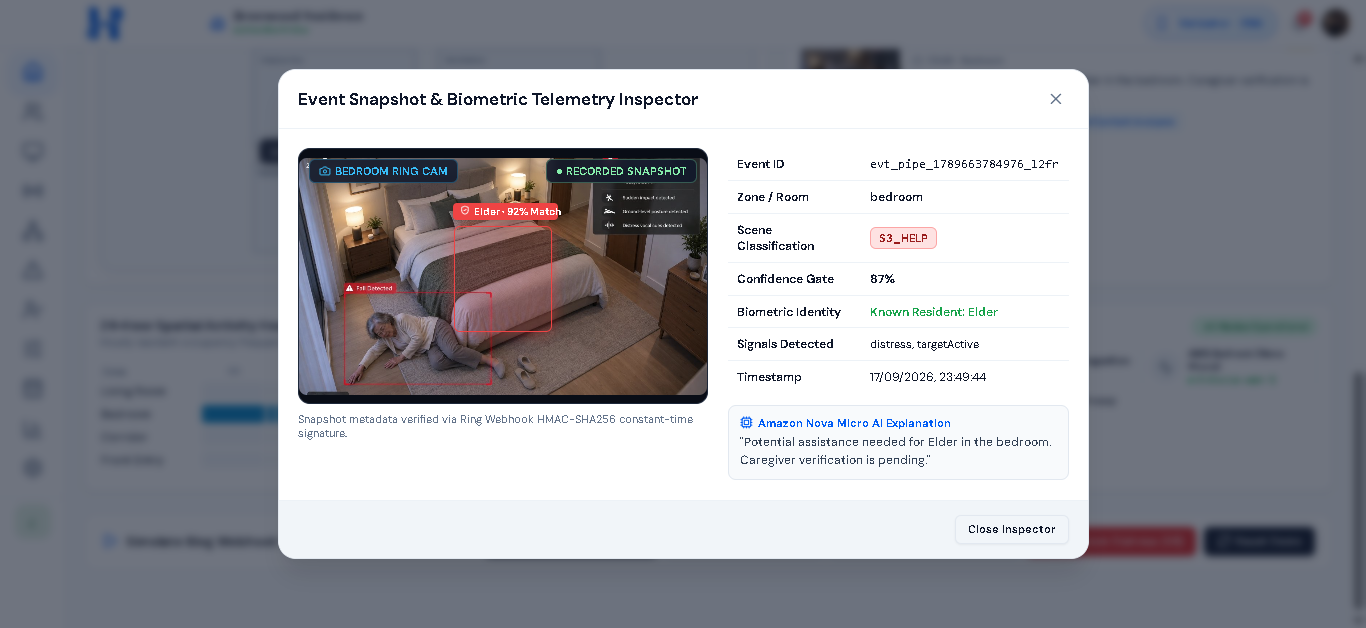
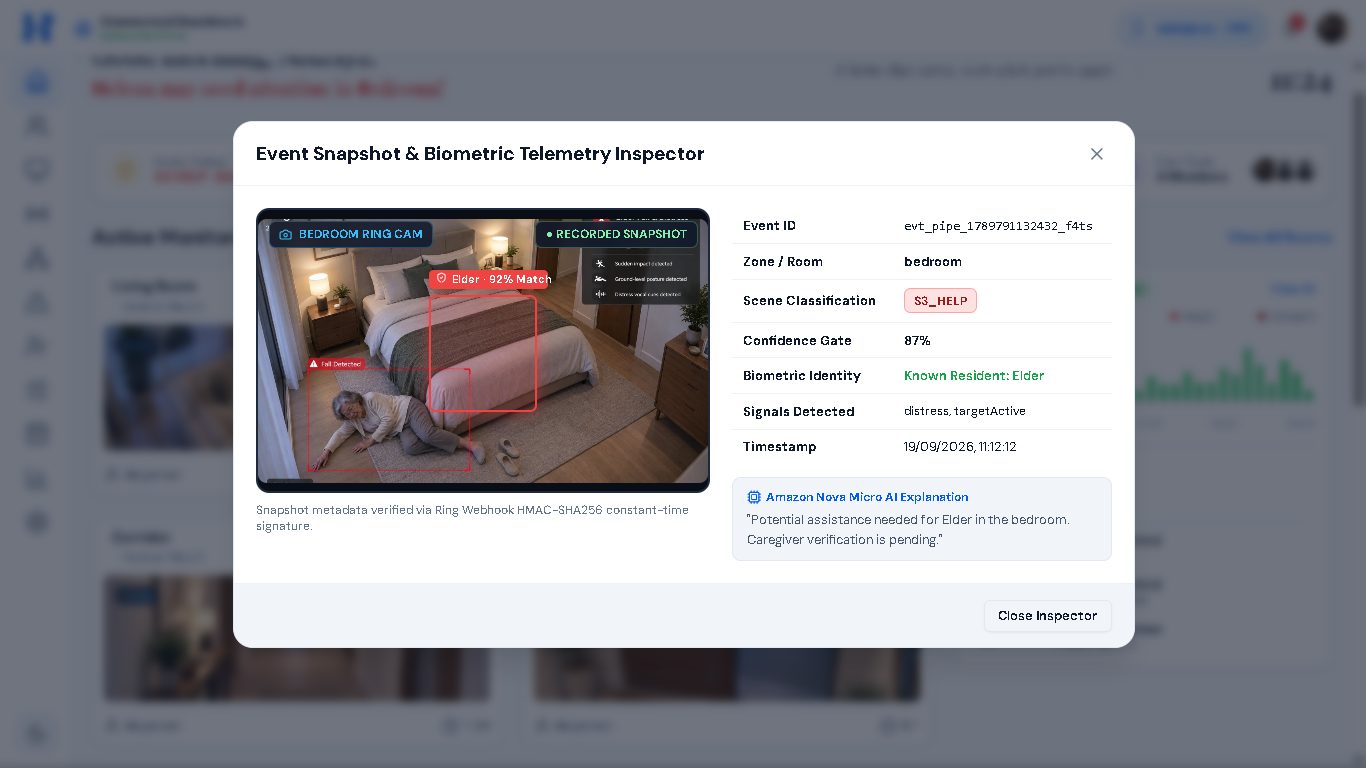
chore: refresh screenshots from screenshots-2 + update README gallery
- Replace docs/screenshots/* with light 1920x1080 re-shoot 11:21-11:46 (01 top/bottom, 02, 03+confirm, 04, 05, 06+camera, 07+Insight, 08 topology, 00 default, TIMELINE)
- Remove stale 01-dashboard-overview.png, 06A, 07A old pre-theme
- README: 7 sections -> 8 sections with TOP/BOTTOM split, camera, Insight, Timeline, Topology

diff --git a/README.md b/README.md
@@ -53,27 +53,34 @@ HESTIA is designed as a calm elder-care operating system rather than a surveilla
 Here is the visual walkthrough of the HESTIA platform across its core modules:
 
 ### 1. Care Command Center Overview
-![Dashboard Overview](docs/screenshots/01-dashboard-overview.png)
+![Dashboard Overview Top](docs/screenshots/01-dashboard-overview-top-rooms.png)
+![Dashboard Overview Bottom](docs/screenshots/01-dashboard-overview-bottom-rooms.png)
+![Dashboard Default](docs/screenshots/00-Dasboard-Default.png)
 
 ### 2. Event Inspection & Amazon Nova Micro AI Context
 ![Event Inspection](docs/screenshots/02-event-inspection-nova-context.png)
 
 ### 3. Fast-Action Validator PWA
 ![Validator PWA](docs/screenshots/03-validator-pwa-action.png)
+![Validator Confirm](docs/screenshots/03-validator-pwa-action-confirm.png)
 
 ### 4. Family Reassurance & Handled State
 ![Family Reassurance](docs/screenshots/04-family-reassurance-resolved.png)
 
 ### 5. Ring Hardware Registry & Webhook Integration
 ![Ring Integration](docs/screenshots/05-ring-integration.png)
+![Care Topology](docs/screenshots/08-care-topology.png)
 
 ### 6. Resident Face Studio & Multi-Angle Biometrics
 ![Face Studio](docs/screenshots/06-resident-face-studio.png)
-![Face Studio Angle B](docs/screenshots/06A-resident-face-studio.png)
+![Face Studio Camera](docs/screenshots/06-resident-face-studio-camera.png)
 
-### 7. Automation Rules Engine
+### 7. Automation Rules Engine & Insights
 ![Automation Rules](docs/screenshots/07-automation-rules.png)
-![Automation Rules Angle B](docs/screenshots/07A-automation-rules.png)
+![Insights](docs/screenshots/07-automation-rules-Insight.png)
+
+### Timeline
+![Timeline 2:55](docs/screenshots/TIMELINE-TABLE.png)
 
 ## Running the project
 
